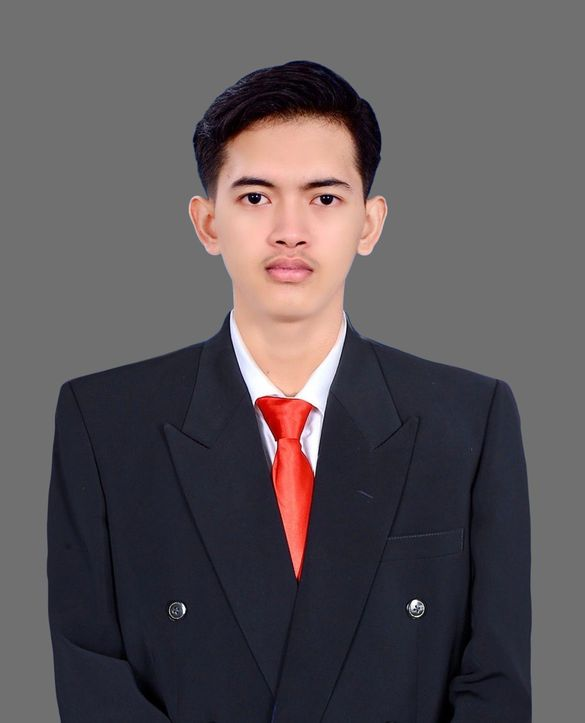
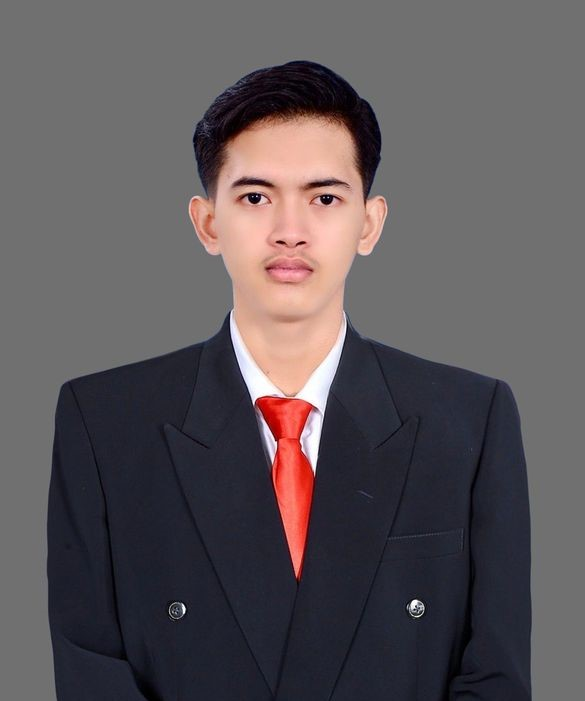
update data

diff --git a/style.css b/style.css
@@ -529,20 +529,37 @@ footer {
   }
 
   .main-container .image {
-    position: relative;
-    margin-top: -25px;
-    width: 300px;
-    height: 50vh;
-    border-radius: 100%;
+    margin: 0 auto 20px auto; /* Tengah & beri jarak bawah */
+    display: flex;
+    justify-content: center;
+    align-items: center;
+    height: 180px; /* Atur tinggi agar proporsional */
+    width: 180px; /* Atur lebar agar proporsional */
+    border-radius: 50%;
+    overflow: hidden;
+    box-shadow: 0 0 30px 5px rgb(0, 167, 204);
+    background: #111;
+  }
+
+  .main-container .image img {
+    width: 100%;
+    height: 100%;
+    object-fit: cover; /* Biar gambar tidak gepeng */
+    display: block;
   }
 
   .main-container .content {
-    width: 80%;
+    width: 90%;
+    margin: 0 auto;
     margin-top: 10px;
+    text-align: center;
   }
 
   .main-container button {
     margin-top: 25px;
-    margin-left: -5px;
+    margin-left: 0;
+    display: block;
+    margin-right: auto;
+    margin-left: auto;
   }
 }

diff --git a/index.html b/index.html
@@ -94,7 +94,7 @@
           </div>
         </div>
         <div class="image" data-aos="zoom-in" data-aos-duration="3000">
-          <img src="img/2.jpeg.jpg" alt="foto" />
+          <img src="img/2.jpeg.jpg" alt="foto" width="100%" height="100%" />
         </div>
       </div>
     </section>
